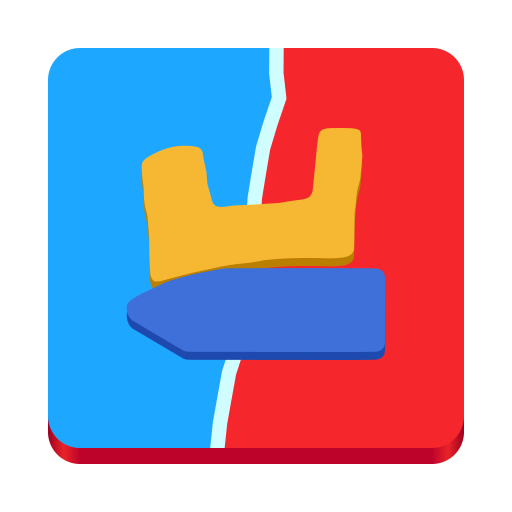
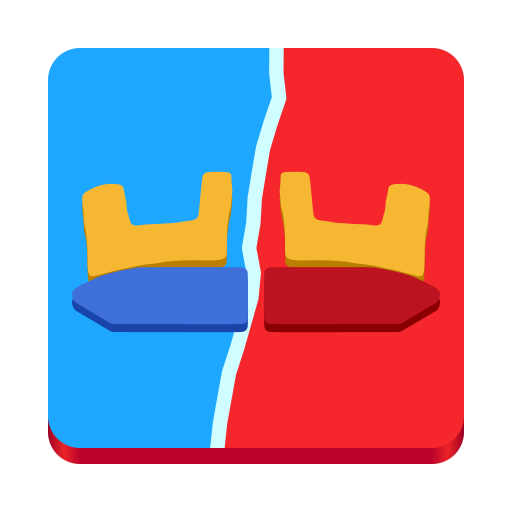
Clash Royale: two crowns (blue king / red king) on the blue/red split
Claude-Session: https://claude.ai/code/session_01FFsWQjRjvkti81EALpUKZf

Changed region(s): [[0.125, 0.25, 0.875, 0.7188]]

diff --git a/work/_lib/build_weak.py b/work/_lib/build_weak.py
@@ -446,6 +446,26 @@ def clash_royale():
     H = a.shape[0]
     Y, X = np.mgrid[0:H, 0:H] * s
     r, g_, b = a[..., 0], a[..., 1], a[..., 2]
+    def crown_of(side):
+        """gold crown + its band (blue on the left king, red on the right king), measured."""
+        xs = (X < 70) if side == "L" else (X > 58)
+        gold_all = (r > 0.70) & (g_ > 0.40) & (g_ < 0.92) & (b < 0.55) & xs & (Y < 55)
+        comps = gt.components(ndimage.binary_opening(gold_all, iterations=2))
+        gold = comps[0]
+        gx0, gy0, gx1, gy1 = gt.bbox(gold, s)
+        win = (X > gx0 - 3) & (X < gx1 + 3) & (Y > gy1 - 3) & (Y < gy1 + 13)
+        colour = ((b > r + 0.25) & (b > 0.55)) if side == "L" else ((r > 0.6) & (g_ < 0.30) & (b < 0.35))
+        band = gt.components(ndimage.binary_opening(ndimage.binary_fill_holes(colour & win), iterations=3))[0]
+        bc = "#3f6fd8" if side == "L" else hexc(np.median(a[band][:, :3], 0))
+        return trace(gold, s, smooth_u=0.8), d_of(poly_of(trace(band, s, smooth_u=1.0)).convex_hull), bc
+
+    # The right king wears the same crown, turned away from the viewer: mirror the measured
+    # left crown and give it the right king's band colour (measured ~#e04040 under the right
+    # crown), one step darker so it separates from the red half.
+    from shapely import affinity
+    lg, lb, _ = crown_of("L")
+    mir = lambda d: d_of(affinity.scale(poly_of(d), xfact=-1, yfact=1, origin=(64, 64)))  # noqa: E731
+    crowns = {"L": (lg, lb, "#3f6fd8"), "R": (mir(lg), mir(lb), shade("#e04040", -0.10))}
     gold_all = (r > 0.70) & (g_ > 0.40) & (g_ < 0.92) & (b < 0.55) & (X < 70) & (Y < 55)
     comps = gt.components(ndimage.binary_opening(gold_all, iterations=2))
     gold = comps[0]
@@ -479,6 +499,20 @@ def clash_royale():
         ic.path(d_of(shape.difference(left)), RD, layer_id="red")
         ic.path(d_of(LineString(line).buffer(1.8).intersection(shape)), "#d0fdff", layer_id="bolt")
 
+    def two_crowns(ic, box, depth=2):
+        """left (blue-band) crown over the blue side, right (red-band) crown over the red side"""
+        x0, y0, x1, y1 = box
+        mid = (x0 + x1) / 2
+        GOLD = "#f6b833"
+        for k, bx in (("L", (x0, y0, mid - 2, y1)), ("R", (mid + 2, y0, x1, y1))):
+            g, bnd, bc = crowns[k]
+            ds, _ = place([g, bnd], bx)
+            with ic.group(f"crown{k}"):
+                ic.path(gk.translate_d(ds[0], 0, depth), shade(GOLD, -0.18), layer_id=f"crown{k}-side", fill_rule="evenodd")
+                ic.path(gk.translate_d(ds[1], 0, depth), shade(bc, -0.14), layer_id=f"band{k}-side", fill_rule="evenodd")
+                ic.path(ds[0], GOLD, layer_id=f"crown{k}-gold", fill_rule="evenodd")
+                ic.path(ds[1], bc, layer_id=f"band{k}", fill_rule="evenodd")
+
     def crown(ic, box, depth=2):
         src = [crown_gold, crown_band] + ([crown_jewel] if crown_jewel else [])
         ds, _ = place(src, box, ref=[crown_gold, crown_band])
@@ -493,25 +527,25 @@ def clash_royale():
                 ic.path(ds[2], "#ffcf5c", layer_id="jewel")
 
     out = {}
-    ic = gk.Icon("Clash Royale - Faithful", note("clash_royale", "crown emblem on the blue/red split"))
+    ic = gk.Icon("Clash Royale - Faithful", note("clash_royale", "two crowns (blue king / red king) on the blue/red split"))
     chin = ic.chin_gradient(RD, 12, 116, 8)
     with ic.group("plate"):
         ic.path(gk.rrect_d(12, 16, 104, 100, 8), chin, layer_id="plate-chin")
     split(ic, face_shape("plate"), lambda x, y: (12 + x * 104 / 128, 12 + y * 100 / 128))
-    crown(ic, box_c(64, 60, 72, 56)); out["faithful"] = ic
+    two_crowns(ic, box_c(64, 62, 92, 50)); out["faithful"] = ic
     for st, title, kind in (("disc", "Sound Disc", "disc"), ("rimmed", "Rimmed", "rimmed")):
-        ic = gk.Icon(f"Clash Royale - {title}", note("clash_royale", "crown emblem on the blue/red split"))
+        ic = gk.Icon(f"Clash Royale - {title}", note("clash_royale", "two crowns (blue king / red king) on the blue/red split"))
         if kind == "disc":
             ic.path(gk.circle_d(64, 65, 59), ic.chin_gradient(RD, 5, 123, 53), layer_id="disc-chin")
             split(ic, face_shape("disc"), lambda x, y: (5 + x * 118 / 128, 4 + y * 118 / 128))
-            crown(ic, box_c(64, 60, 76, 58))
+            two_crowns(ic, box_c(64, 63, 96, 52))
         else:
             ic.rimmed_disc(inner=RD)
             split(ic, face_shape("rimmed"), lambda x, y: (10.5 + x * 107 / 128, 9.5 + y * 107 / 128))
-            crown(ic, box_c(64, 61, 66, 50))
+            two_crowns(ic, box_c(64, 63, 86, 46))
         out[st] = ic
-    ic = gk.Icon("Clash Royale - Free Symbol", note("clash_royale", "the crown alone"))
-    crown(ic, box_c(64, 70, 110, 90), depth=4); out["symbol"] = ic
+    ic = gk.Icon("Clash Royale - Free Symbol", note("clash_royale", "the two kings' crowns"))
+    two_crowns(ic, box_c(64, 86, 118, 64), depth=4); out["symbol"] = ic
     return out
 
 
